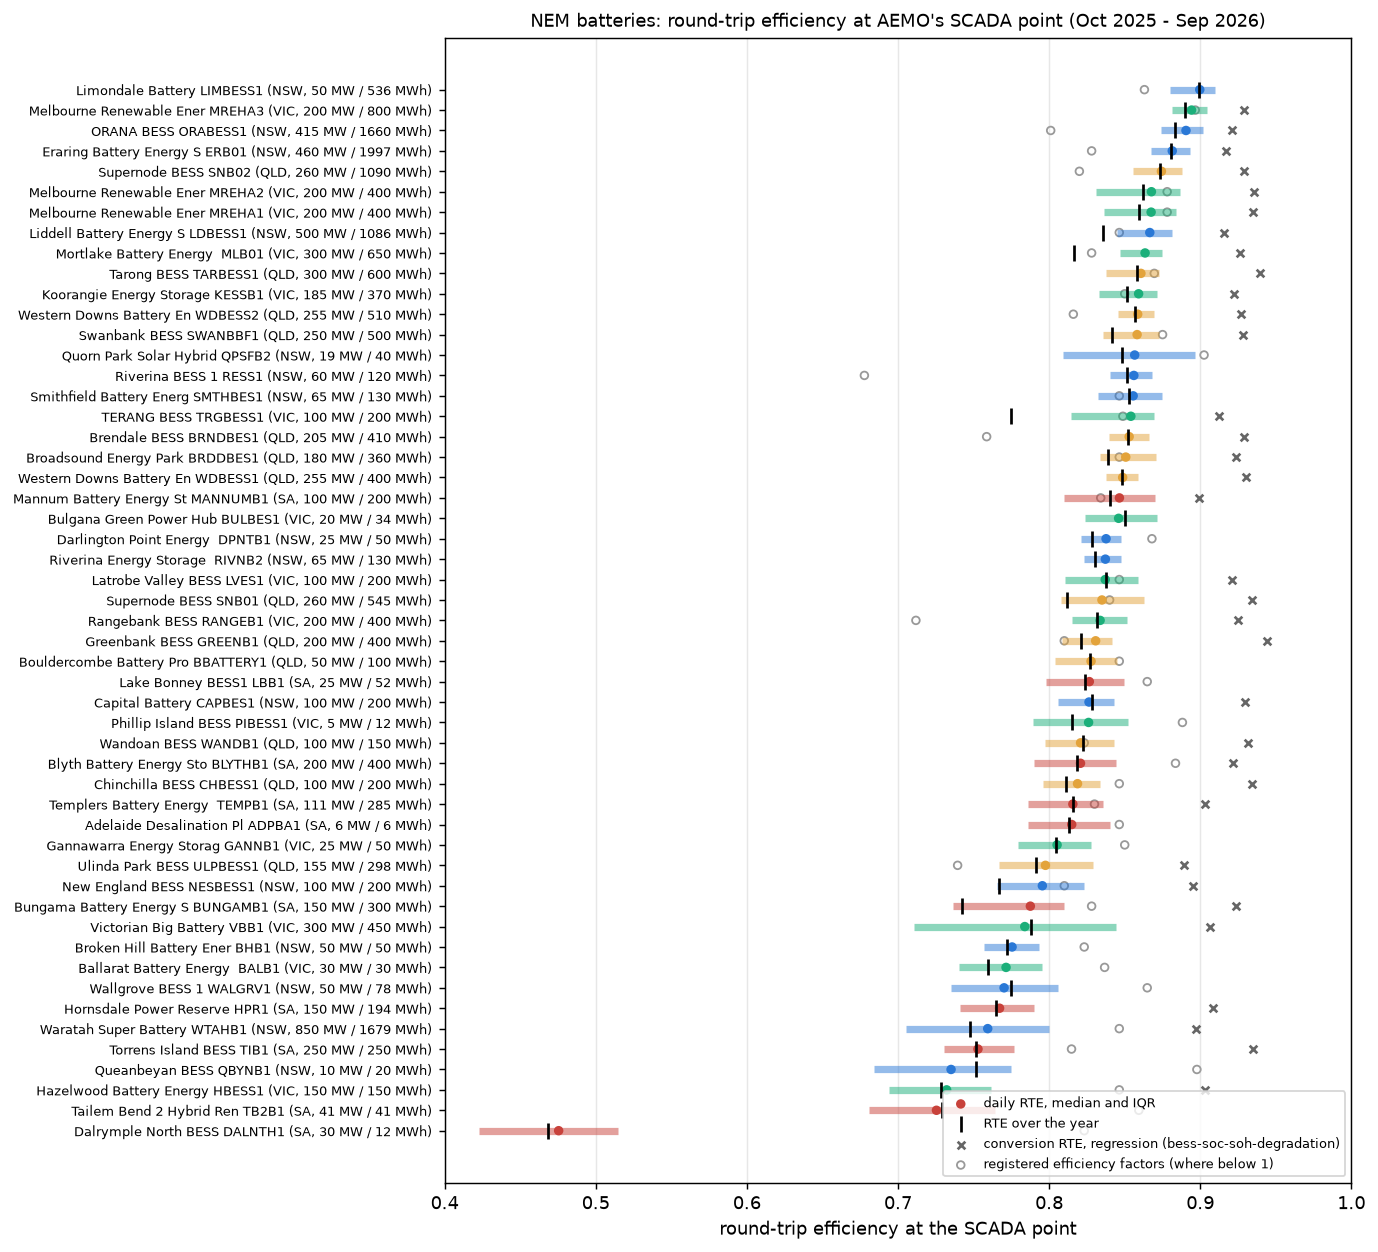
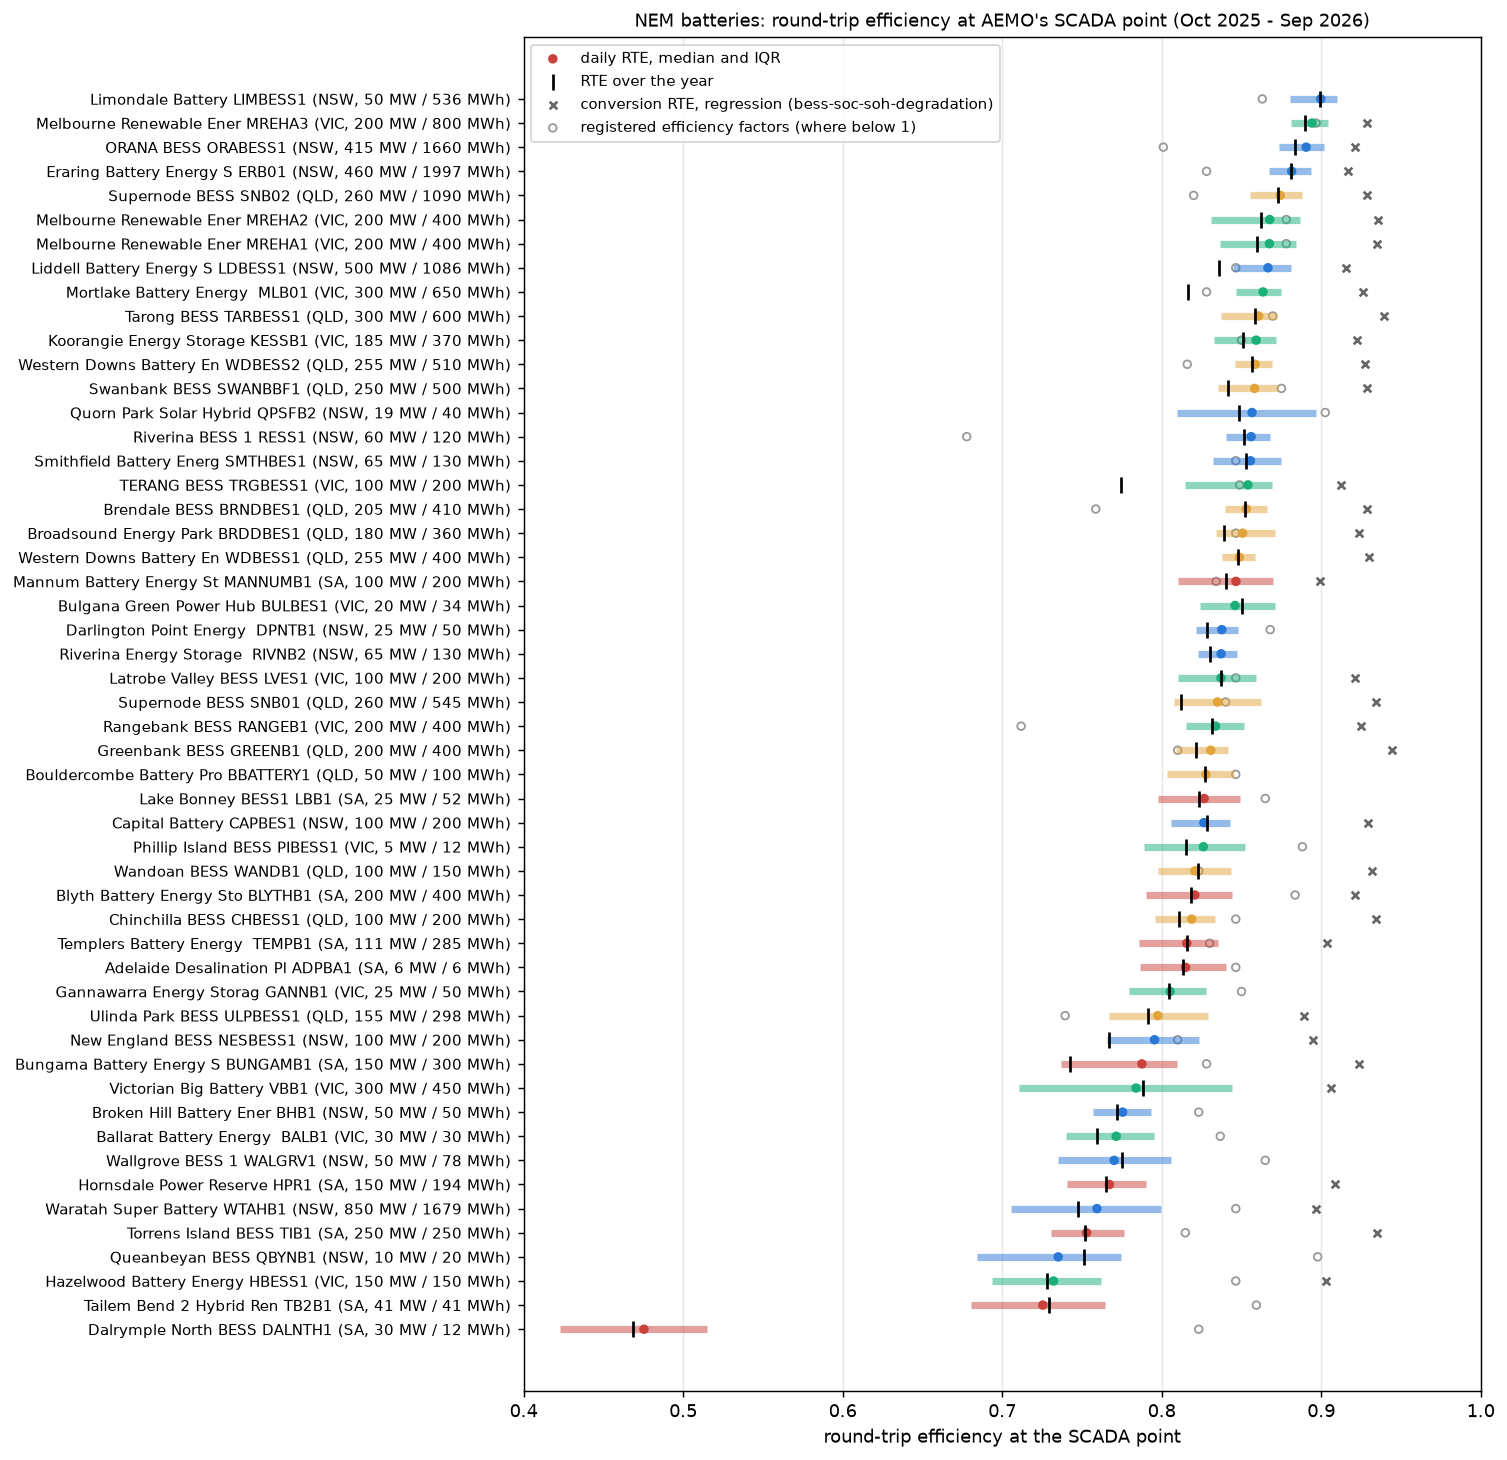
Charts: legends off the data, full ACEN range, larger labels
Page: horizontal legends are anchored at their bottom above the plot (below it
on narrow screens), so legends that wrap grow away from the data; they covered
26-68 % of the unit, ACEN and synthetic plots.

README charts: fleet_rte legend moved to the empty upper left and labels to
8.5 pt; acen_rte y axis starts below the lowest daily RTE (series C dipped
below 0.6 and was cut) with the legend under the axis; synthetic legends
larger, the SoH legend in the empty lower left. Layout only; data unchanged.

diff --git a/docs/index.html b/docs/index.html
@@ -145,7 +145,9 @@ function layoutBase(extra) {
   return Object.assign({paper_bgcolor: css("--surface"), plot_bgcolor: css("--surface"),
     font: {family: "system-ui, -apple-system, Segoe UI, sans-serif", color: css("--ink2"), size: 12},
     margin: {l: 60, r: 16, t: 24, b: 50}, hoverlabel: {bgcolor: css("--surface"), font: {color: css("--ink")}},
-    legend: narrow() ? {orientation: "h", y: -0.22, x: 0, font: {size: 10}} : {orientation: "h", y: 1.06, x: 0}},
+    // anchored on the side away from the plot, so a legend that wraps to more rows grows away from the data
+    legend: narrow() ? {orientation: "h", y: -0.22, yanchor: "top", x: 0, font: {size: 10}}
+      : {orientation: "h", y: 1.02, yanchor: "bottom", x: 0}},
     extra);
 }
 const axis = extra => Object.assign({gridcolor: css("--grid"), linecolor: css("--axis"), zeroline: false}, extra);

diff --git a/src/bess_ops/site.py b/src/bess_ops/site.py
@@ -104,7 +104,7 @@ def _labels(s: pd.DataFrame) -> list[str]:
 
 def chart_fleet_rte(summary: pd.DataFrame, path: Path):
     s = summary[summary["valid_days"] >= 30].dropna(subset=["rte_daily_median"]).sort_values("rte_daily_median")
-    fig, ax = plt.subplots(figsize=(9, max(4, 0.22 * len(s))))
+    fig, ax = plt.subplots(figsize=(9.5, max(4, 0.26 * len(s))))
     y = np.arange(len(s))
     col = [REGION_COLORS.get(r, "#888") for r in s["region"]]
     ax.hlines(y, s["rte_daily_p25"], s["rte_daily_p75"], color=col, lw=4, alpha=0.5)
@@ -116,10 +116,10 @@ def chart_fleet_rte(summary: pd.DataFrame, path: Path):
     reg = s["rte_registered"].where(s["rte_registered"] < 0.999)
     ax.scatter(reg, y, marker="o", facecolors="none", edgecolors="#999", s=18,
                label="registered efficiency factors (where below 1)")
-    ax.set_yticks(y, _labels(s), fontsize=7)
+    ax.set_yticks(y, _labels(s), fontsize=8.5)
     ax.set_xlim(0.4, 1.0)
     ax.set_xlabel("round-trip efficiency at the SCADA point")
-    ax.legend(fontsize=7, loc="lower right")
+    ax.legend(fontsize=8.5, loc="upper left")  # the best batteries sit right, the space to their left is empty
     ax.grid(axis="x", alpha=0.3)
     ax.set_title("NEM batteries: round-trip efficiency at AEMO's SCADA point (Oct 2025 - Sep 2026)", fontsize=10)
     _save(fig, path)
@@ -161,9 +161,10 @@ def chart_acen(results: Path, path: Path):
     ax.plot(x, d["rte_operator"], "o-", ms=3, color="#1baf7a", label="A: operator power + operator SoC")
     ax.plot(x, d["rte_scada_operator_soc"], "s-", ms=3, color="#2a78d6", label="B: AEMO SCADA + operator SoC")
     ax.plot(x, d["rte_market"], "^-", ms=3, color="#eb6834", label="C: AEMO SCADA + energy reported to AEMO")
-    ax.set_ylim(0.6, 1.0)
+    low = d[["rte_operator", "rte_scada_operator_soc", "rte_market"]].min().min()
+    ax.set_ylim(min(0.6, np.floor((low - 0.02) * 20) / 20), 1.0)  # every point inside the axes
     ax.set_ylabel("daily RTE")
-    ax.legend(fontsize=7, ncol=3, loc="lower center")
+    ax.legend(fontsize=8.5, ncol=3, loc="upper center", bbox_to_anchor=(0.5, -0.32), frameon=False)
     ax.grid(alpha=0.3)
     ax.set_title("New England BESS, section 1: daily RTE from the operator's and from market data", fontsize=10)
     fig.autofmt_xdate()
@@ -183,7 +184,7 @@ def chart_synthetic(res: dict, results: Path, path: Path):
     ax.axvline(0.975 ** 2 * 0.98 ** 2, color="k", ls="--", lw=1, label="truth 0.913")
     ax.set_xlabel("daily RTE without auxiliaries")
     ax.set_ylabel("days")
-    ax.legend(fontsize=7)
+    ax.legend(fontsize=8.5)
     ax.set_title("Synthetic battery: daily RTE", fontsize=10)
     ax = axes[1]
     ax.fill_between(fc["years"], fc["soh_p10"], fc["soh_p90"], color="#2a78d6", alpha=0.2, label="forecast P10-P90")
@@ -197,7 +198,7 @@ def chart_synthetic(res: dict, results: Path, path: Path):
     ax.set_ylim(0.8, 1.03)
     ax.set_xlabel("years since COD")
     ax.set_ylabel("tested energy / 100 MWh")
-    ax.legend(fontsize=6, ncol=2)
+    ax.legend(fontsize=8, loc="lower left")  # the curves leave the lower left empty
     ax.set_title("Capacity tests and SoH forecast", fontsize=10)
     _save(fig, path)
 
